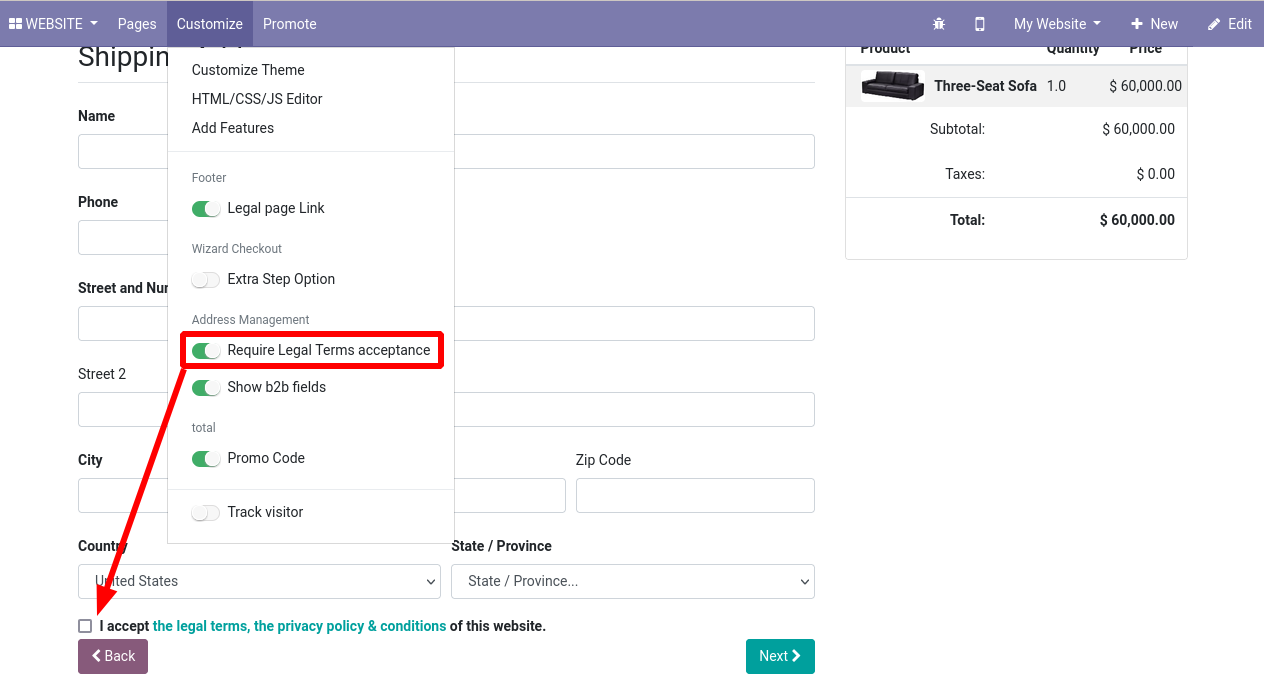
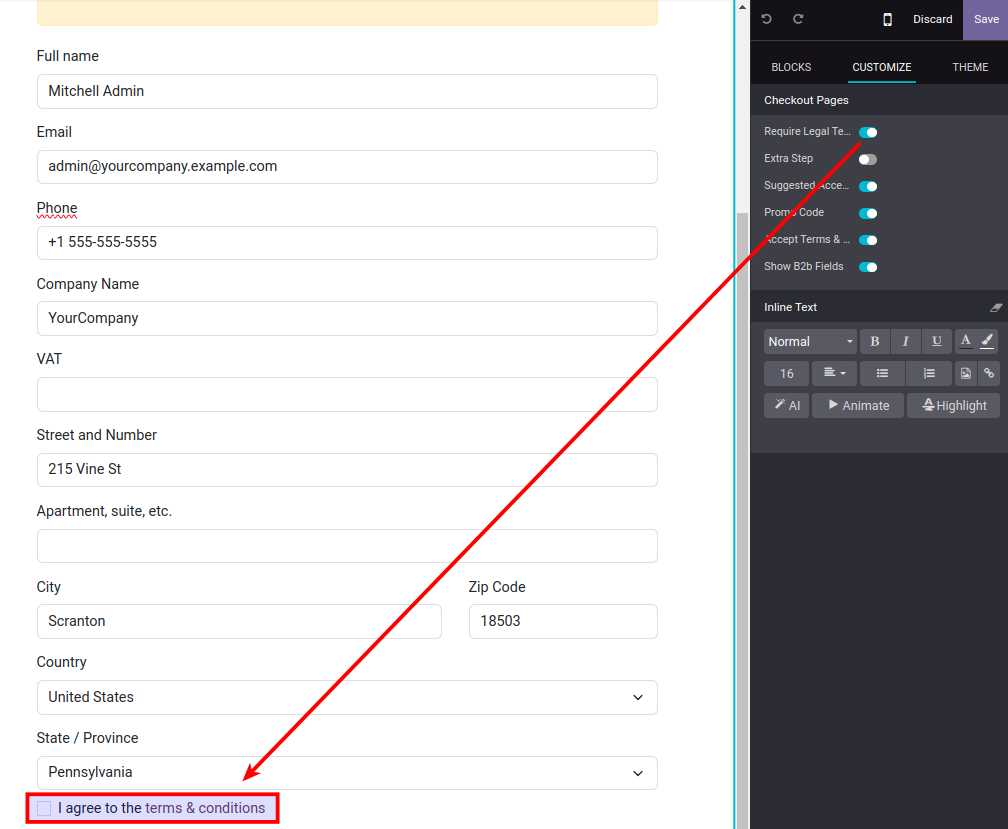
[MIG] website_sale_require_legal: Migration to version 17.0
TT51564

diff --git a/website_sale_require_legal/static/tests/tours/tour.esm.js b/website_sale_require_legal/static/tests/tours/tour.esm.js
@@ -1,0 +1,103 @@
+/** @odoo-module */
+
+/* Copyright 2017 Jairo Llopis <jairo.llopis@tecnativa.com>
+ * Copyright 2023 Pilar Vargas <pilar.vargas@tecnativa.com>
+ * License AGPL-3.0 or later (https://www.gnu.org/licenses/agpl). */
+
+import {registry} from "@web/core/registry";
+import tourUtils from "@website_sale/js/tours/tour_utils";
+
+registry.category("web_tour.tours").add("website_sale_require_legal_with_payment", {
+    test: true,
+    url: "/shop",
+    steps: () => [
+        ...tourUtils.searchProduct("Storage Box"),
+        {
+            content: "select Storage Box",
+            trigger: '.oe_product_cart:first a:contains("Storage Box")',
+        },
+        {
+            content: "click on add to cart",
+            trigger: '#product_detail form[action^="/shop/cart/update"] #add_to_cart',
+        },
+        tourUtils.goToCart(),
+        tourUtils.goToCheckout(),
+        // Fill all required fields except legal terms acceptance
+        {
+            trigger: 'select[name="country_id"]',
+            run: function () {
+                $('input[name="phone"]').val("99999999");
+                // Required for test compatibility with the website_sale_vat_required module
+                $('input[name="vat"]').val("00000000X");
+                $('input[name="street"]').val("Castle St., 1");
+                $('input[name="city"]').val("Mushroom Kingdom");
+                $('input[name="zip"]').val("10000");
+                $("#country_id option:eq(1)").attr("selected", true);
+            },
+        },
+        // Submit, to prove that it is not possible to continue without accepting the legal terms
+        {
+            trigger: ".btn-primary:contains('Save address')",
+        },
+        // // Accept legal terms and accept again
+        {
+            trigger: "#accepted_legal_terms.is-invalid",
+        },
+        {
+            trigger: ".btn-primary:contains('Save address')",
+        },
+        {
+            trigger: "a[href='/shop/confirm_order']",
+        },
+        // If I can proceed to payment, it's because the form validated fine
+        {
+            trigger: "input[id='website_sale_tc_checkbox']",
+        },
+        ...tourUtils.payWithTransfer(true),
+    ],
+});
+
+registry.category("web_tour.tours").add("website_sale_require_legal", {
+    test: true,
+    url: "/shop",
+    steps: () => [
+        ...tourUtils.searchProduct("Storage Box"),
+        {
+            content: "select Storage Box",
+            trigger: '.oe_product_cart:first a:contains("Storage Box")',
+        },
+        {
+            content: "click on add to cart",
+            trigger: '#product_detail form[action^="/shop/cart/update"] #add_to_cart',
+        },
+        tourUtils.goToCart(),
+        tourUtils.goToCheckout(),
+        // Fill all required fields except legal terms acceptance
+        {
+            trigger: 'select[name="country_id"]',
+            run: function () {
+                $('input[name="phone"]').val("99999999");
+                // Required for test compatibility with the website_sale_vat_required module
+                $('input[name="vat"]').val("00000000X");
+                $('input[name="street"]').val("Castle St., 1");
+                $('input[name="city"]').val("Mushroom Kingdom");
+                $('input[name="zip"]').val("10000");
+                $("#country_id option:eq(1)").attr("selected", true);
+            },
+        },
+        // Submit, to prove that it is not possible to continue without accepting the legal terms
+        {
+            trigger: ".btn-primary:contains('Save address')",
+        },
+        // // Accept legal terms and accept again
+        {
+            trigger: "#accepted_legal_terms.is-invalid",
+        },
+        {
+            trigger: ".btn-primary:contains('Save address')",
+        },
+        {
+            trigger: "a[href='/shop/confirm_order']",
+        },
+    ],
+});

diff --git a/website_sale_require_legal/static/description/index.html b/website_sale_require_legal/static/description/index.html
@@ -415,14 +415,14 @@ payment process, even if a new address has not been created.</p>
 </li>
 <li><p class="first">Go to your e-commerce and make a sample checkout.</p>
 </li>
-<li><p class="first">Visit <a class="reference external" href="/shop/address">/shop/address</a> and enable <em>Customize &gt;
-Require Legal Terms Acceptance</em>.</p>
+<li><p class="first">Visit <a class="reference external" href="/shop/address">/shop/address</a> and enable in the web editor
+<em>Customize &gt; Require Legal Terms Acceptance</em>.</p>
 <p><img alt="image1" src="https://raw.githubusercontent.com/OCA/e-commerce/17.0/website_sale_require_legal/static/description/address-enable.png" /></p>
 <p>This will require acceptance before recording a new address, and log
 visitor’s acceptance.</p>
 </li>
-<li><p class="first">Visit <a class="reference external" href="/shop/payment">/shop/payment</a> and enable <em>Customize &gt;
-Accept Terms &amp; Conditions</em> (upstream Odoo feature).</p>
+<li><p class="first">Visit <a class="reference external" href="/shop/payment">/shop/payment</a> and enable in the web editor
+<em>Customize &gt; Accept Terms &amp; Conditions</em> (upstream Odoo feature).</p>
 <p><img alt="image2" src="https://raw.githubusercontent.com/OCA/e-commerce/17.0/website_sale_require_legal/static/description/payment-enable.png" /></p>
 <p>This will require acceptance before paying the sale order, and log
 visitor’s acceptance.</p>

diff --git a/website_sale_require_legal/tests/test_ui.py b/website_sale_require_legal/tests/test_ui.py
@@ -33,50 +33,53 @@ class UICase(HttpCase):
         website.viewref(
             "website_sale_require_legal.address_require_legal"
         ).active = True
-        website.viewref("website_sale.payment_sale_note").active = True
-        new_test_user(self.env, login="super_mario", groups="base.group_portal")
-        # Create a dummy payment provider to ensure that the tour has at least one
-        # available to it.
-        arch = """
-        <form action="dummy" method="post">
-            <input type="hidden" name="view_id" t-att-value="viewid"/>
-            <input type="hidden" name="user_id" t-att-value="user_id.id"/>
-        </form>
-        """
-        redirect_form = self.env["ir.ui.view"].create(
-            {
-                "name": "Dummy Redirect Form",
-                "type": "qweb",
-                "arch": arch,
-            }
-        )
-        self.dummy_provider = self.env["payment.provider"].create(
-            {
-                "name": "Dummy Provider",
-                "code": "none",
-                "state": "test",
-                "is_published": True,
-                "allow_tokenization": True,
-                "redirect_form_view_id": redirect_form.id,
-            }
+        website.viewref("website_sale.accept_terms_and_conditions").active = True
+        self.user = new_test_user(
+            self.env,
+            login="super_mario",
+            groups="base.group_portal",
+            password="super_mario",
+            name="Super Mario",
         )
 
     def test_ui_website(self):
         """Test frontend tour."""
-        self.start_tour("/shop", "website_sale_require_legal", login="super_mario")
-        order = self.env["sale.order"].search(
-            [
-                ("partner_id", "ilike", "super_mario"),
-                ("website_id", "!=", "False"),
-            ]
-        )
-        partner = order.partner_id
-        # Assert that the sale order and partner have metadata logs
-        self.assertTrue(
-            order.message_ids.filtered(
-                lambda one: "Website legal terms acceptance metadata" in one.body
+        if self.env["ir.module.module"]._get("payment_custom").state != "installed":
+            self.start_tour(
+                "/shop",
+                "website_sale_require_legal",
+                stepDelay=100,
+                login="super_mario",
             )
-        )
+        else:
+            transfer_provider = self.env.ref("payment.payment_provider_transfer")
+            transfer_provider.write(
+                {
+                    "state": "enabled",
+                    "is_published": True,
+                }
+            )
+            transfer_provider._transfer_ensure_pending_msg_is_set()
+            self.start_tour(
+                "/shop",
+                "website_sale_require_legal_with_payment",
+                stepDelay=100,
+                login="super_mario",
+            )
+            order = self.env["sale.order"].search(
+                [
+                    ("partner_id", "ilike", "super_mario"),
+                    ("website_id", "!=", "False"),
+                ]
+            )
+            # Assert that the sale order have metadata logs
+            self.assertTrue(
+                order.message_ids.filtered(
+                    lambda one: "Website legal terms acceptance metadata" in one.body
+                )
+            )
+        # Assert that the partner have metadata logs
+        partner = self.user.partner_id
         self.assertTrue(
             partner.message_ids.filtered(
                 lambda one: "Website legal terms acceptance metadata" in one.body

diff --git a/website_sale_require_legal/controllers/main.py b/website_sale_require_legal/controllers/main.py
@@ -4,6 +4,7 @@
 
 from odoo import _, http
 from odoo.http import request
+from odoo.tools import Markup
 
 from odoo.addons.website_sale.controllers import main
 
@@ -48,7 +49,6 @@ class WebsiteSale(main.WebsiteSale):
     def _log_acceptance_metadata(self, record):
         """Log legal terms acceptance metadata."""
         environ = request.httprequest.headers.environ
-        message = _("Website legal terms acceptance metadata: %s")
         metadata = "<br/>".join(
             f"{val}: {environ.get(val)}"
             for val in (
@@ -57,7 +57,10 @@ class WebsiteSale(main.WebsiteSale):
                 "HTTP_ACCEPT_LANGUAGE",
             )
         )
-        record.sudo().message_post(body=message % metadata, message_type="notification")
+        message = Markup(_("Website legal terms acceptance metadata: %s") % metadata)
+        record.sudo().message_post(
+            body=message, message_type="notification", subtype_xmlid="mail.mt_comment"
+        )
 
 
 class PaymentPortal(main.PaymentPortal):
@@ -70,7 +73,9 @@ class PaymentPortal(main.PaymentPortal):
         """
         result = super().shop_payment_transaction(order_id, access_token, **kwargs)
         # If the "Accept Terms & Conditions" view is disabled, we log nothing
-        if not request.website.viewref("website_sale.payment_sale_note").active:
+        if not request.website.viewref(
+            "website_sale.accept_terms_and_conditions"
+        ).active:
             return result
         # Retrieve the sale order
         if order_id:

diff --git a/website_sale_require_legal/__manifest__.py b/website_sale_require_legal/__manifest__.py
@@ -5,7 +5,7 @@
 {
     "name": "Require accepting legal terms to checkout",
     "summary": "Force the user to accept legal tems to buy in the web shop",
-    "version": "16.0.1.0.1",
+    "version": "17.0.1.0.0",
     "category": "Website",
     "website": "https://github.com/OCA/e-commerce",
     "author": "Tecnativa, Odoo Community Association (OCA)",
@@ -19,7 +19,7 @@
             "/website_sale_require_legal/static/src/scss/website_sale_require_legal.scss",
         ],
         "web.assets_tests": [
-            "/website_sale_require_legal/static/tests/tours/tour.js",
+            "/website_sale_require_legal/static/tests/tours/tour.esm.js",
         ],
     },
 }

diff --git a/website_sale_require_legal/readme/CONFIGURE.md b/website_sale_require_legal/readme/CONFIGURE.md
@@ -6,7 +6,7 @@ To configure this module, you need to:
 
 3.  Go to your e-commerce and make a sample checkout.
 
-4.  Visit [/shop/address](/shop/address) and enable *Customize \>
+4.  Visit [/shop/address](/shop/address) and enable in the web editor *Customize \>
     Require Legal Terms Acceptance*.
 
     ![](../static/description/address-enable.png)
@@ -14,8 +14,8 @@ To configure this module, you need to:
     This will require acceptance before recording a new address, and log
     visitor's acceptance.
 
-5.  Visit [/shop/payment](/shop/payment) and enable *Customize \> Accept
-    Terms & Conditions* (upstream Odoo feature).
+5.  Visit [/shop/payment](/shop/payment) and enable in the web editor *Customize \>
+    Accept Terms & Conditions* (upstream Odoo feature).
 
     ![](../static/description/payment-enable.png)
 

diff --git a/website_sale_require_legal/README.rst b/website_sale_require_legal/README.rst
@@ -65,16 +65,16 @@ To configure this module, you need to:
 
 3. Go to your e-commerce and make a sample checkout.
 
-4. Visit `/shop/address </shop/address>`__ and enable *Customize >
-   Require Legal Terms Acceptance*.
+4. Visit `/shop/address </shop/address>`__ and enable in the web editor
+   *Customize > Require Legal Terms Acceptance*.
 
    |image1|
 
    This will require acceptance before recording a new address, and log
    visitor's acceptance.
 
-5. Visit `/shop/payment </shop/payment>`__ and enable *Customize >
-   Accept Terms & Conditions* (upstream Odoo feature).
+5. Visit `/shop/payment </shop/payment>`__ and enable in the web editor
+   *Customize > Accept Terms & Conditions* (upstream Odoo feature).
 
    |image2|
 
